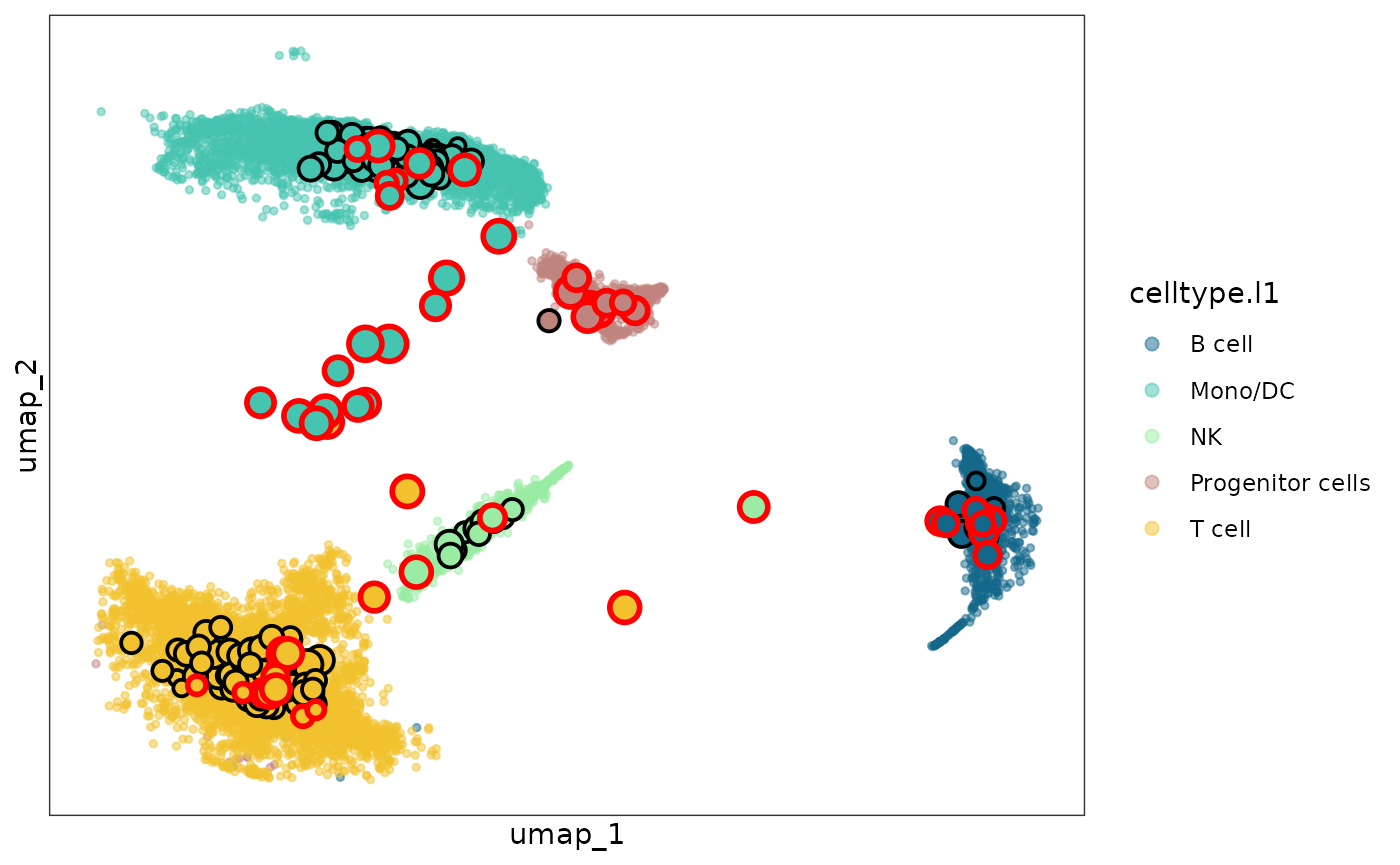
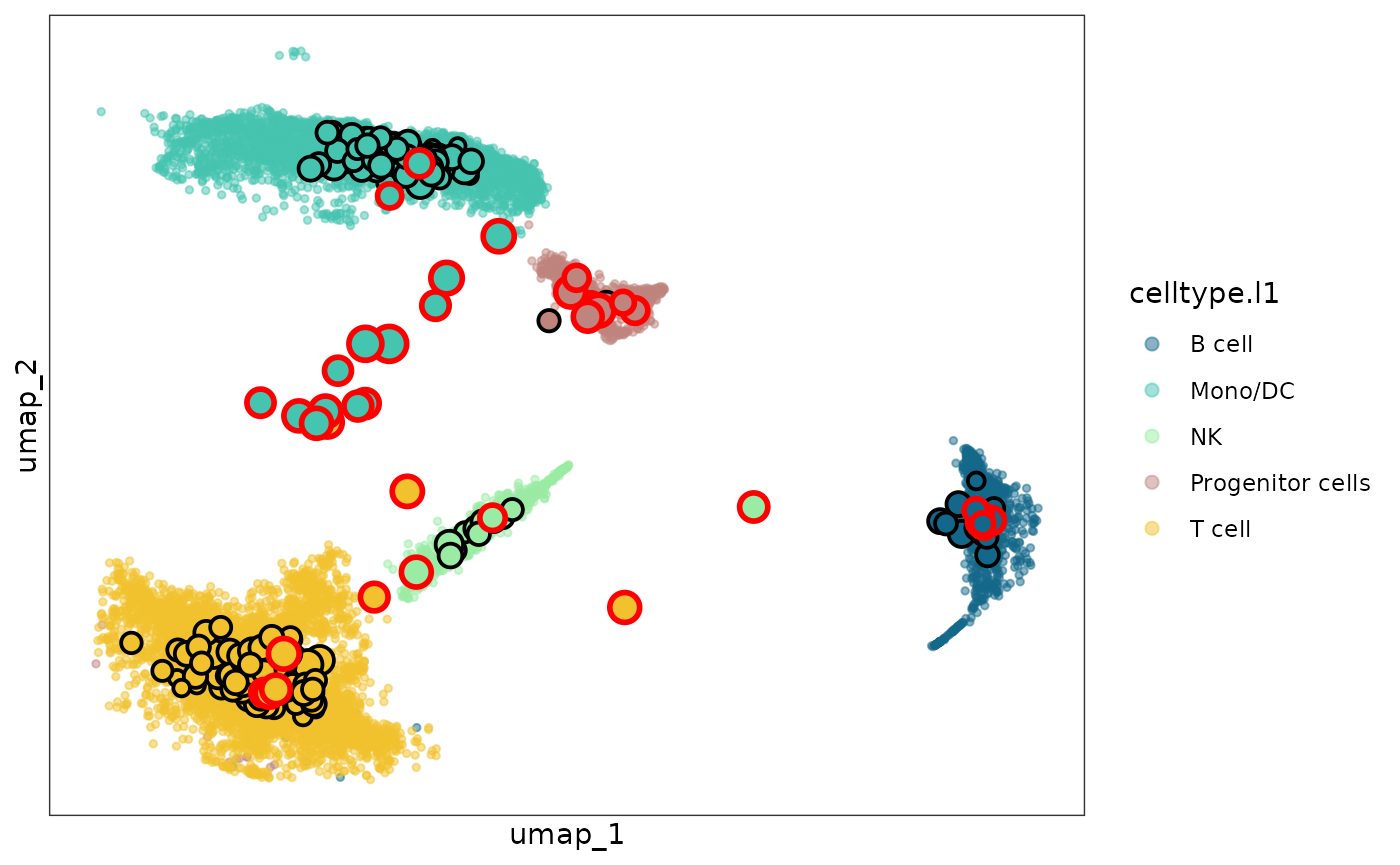
Deploying to gh-pages from @ JSB-UCLA/mcRigor@43a002d25bf159e0ab551213411bad37e7979657 🚀

diff --git a/articles/mcRigor-1-detect-dubmc.html b/articles/mcRigor-1-detect-dubmc.html
@@ -60,7 +60,7 @@
       <h1>Functionality 1: detect dubious metacells for a given metacell partition</h1>
                         <h4 data-toc-skip class="author">Pan Liu</h4>
             
-            <h4 data-toc-skip class="date">7 April 2026</h4>
+            <h4 data-toc-skip class="date">8 April 2026</h4>
       
 
       <div class="d-none name"><code>mcRigor-1-detect-dubmc.Rmd</code></div>
@@ -160,7 +160,7 @@ well as the metadata of the Seurat object with name
 <code class="sourceCode R"><span><span class="fu"><a href="https://rdrr.io/r/base/table.html" class="external-link">table</a></span><span class="op">(</span><span class="va">detect_res</span><span class="op">$</span><span class="va">mc_res</span><span class="op">)</span></span>
 <span><span class="co">#&gt; </span></span>
 <span><span class="co">#&gt;     dubious trustworthy </span></span>
-<span><span class="co">#&gt;          56         212</span></span>
+<span><span class="co">#&gt;          39         229</span></span>
 <span><span class="va">obj_metacell</span> <span class="op">=</span> <span class="va">detect_res</span><span class="op">$</span><span class="va">obj_metacell</span></span>
 <span><span class="fu"><a href="https://rdrr.io/r/utils/head.html" class="external-link">head</a></span><span class="op">(</span><span class="va">obj_metacell</span><span class="op">$</span><span class="va">mcRigor</span><span class="op">)</span></span>
 <span><span class="co">#&gt;   mc50-allcells-SEACell-0   mc50-allcells-SEACell-1  mc50-allcells-SEACell-10 </span></span>
@@ -234,7 +234,7 @@ metacells are with black circles.</p>
 <span><span class="co">#&gt;  [46] bookdown_0.46          knitr_1.51             tensor_1.5.1          </span></span>
 <span><span class="co">#&gt;  [49] future.apply_1.20.2    zoo_1.8-15             sctransform_0.4.3     </span></span>
 <span><span class="co">#&gt;  [52] httpuv_1.6.17          Matrix_1.7-4           splines_4.5.3         </span></span>
-<span><span class="co">#&gt;  [55] igraph_2.2.2           tidyselect_1.2.1       abind_1.4-8           </span></span>
+<span><span class="co">#&gt;  [55] igraph_2.2.3           tidyselect_1.2.1       abind_1.4-8           </span></span>
 <span><span class="co">#&gt;  [58] yaml_2.3.12            spatstat.random_3.4-5  spatstat.explore_3.8-0</span></span>
 <span><span class="co">#&gt;  [61] codetools_0.2-20       miniUI_0.1.2           listenv_0.10.1        </span></span>
 <span><span class="co">#&gt;  [64] plyr_1.8.9             lattice_0.22-9         tibble_3.3.1          </span></span>

diff --git a/articles/mcRigor-4-twostep.html b/articles/mcRigor-4-twostep.html
@@ -153,7 +153,7 @@ there is no need to apply mcRigor two-step.</p>
 <code class="sourceCode R"><span><span class="fu"><a href="https://rdrr.io/r/base/table.html" class="external-link">table</a></span><span class="op">(</span><span class="va">detect_res</span><span class="op">$</span><span class="va">mc_res</span><span class="op">)</span></span>
 <span><span class="co">#&gt; </span></span>
 <span><span class="co">#&gt;     dubious trustworthy </span></span>
-<span><span class="co">#&gt;          28         240</span></span></code></pre></div>
+<span><span class="co">#&gt;          27         241</span></span></code></pre></div>
 <p>We proceed with mcRigor two-step because dubious metacells exist in
 this partition We call the function <code>mcRigorTS_Step1</code> to
 identify the single cells that constitute dubious metacells (under a
@@ -289,7 +289,7 @@ space, respectively.</p>
 <span><span class="co">#&gt;  [46] bookdown_0.46          knitr_1.51             tensor_1.5.1          </span></span>
 <span><span class="co">#&gt;  [49] future.apply_1.20.2    zoo_1.8-15             sctransform_0.4.3     </span></span>
 <span><span class="co">#&gt;  [52] httpuv_1.6.17          Matrix_1.7-4           splines_4.5.3         </span></span>
-<span><span class="co">#&gt;  [55] igraph_2.2.2           tidyselect_1.2.1       abind_1.4-8           </span></span>
+<span><span class="co">#&gt;  [55] igraph_2.2.3           tidyselect_1.2.1       abind_1.4-8           </span></span>
 <span><span class="co">#&gt;  [58] yaml_2.3.12            spatstat.random_3.4-5  spatstat.explore_3.8-0</span></span>
 <span><span class="co">#&gt;  [61] codetools_0.2-20       miniUI_0.1.2           listenv_0.10.1        </span></span>
 <span><span class="co">#&gt;  [64] plyr_1.8.9             lattice_0.22-9         tibble_3.3.1          </span></span>

diff --git a/articles/mcRigor-2-optimize.html b/articles/mcRigor-2-optimize.html
@@ -60,7 +60,7 @@
       <h1>Functionality 2: optimize metacell partitioning</h1>
                         <h4 data-toc-skip class="author">Pan Liu</h4>
             
-            <h4 data-toc-skip class="date">7 April 2026</h4>
+            <h4 data-toc-skip class="date">8 April 2026</h4>
       
 
       <div class="d-none name"><code>mcRigor-2-optimize.Rmd</code></div>
@@ -246,7 +246,7 @@ metacells are with black circles.</p>
 <span><span class="co">#&gt;  [46] bookdown_0.46          knitr_1.51             tensor_1.5.1          </span></span>
 <span><span class="co">#&gt;  [49] future.apply_1.20.2    zoo_1.8-15             sctransform_0.4.3     </span></span>
 <span><span class="co">#&gt;  [52] httpuv_1.6.17          Matrix_1.7-4           splines_4.5.3         </span></span>
-<span><span class="co">#&gt;  [55] igraph_2.2.2           tidyselect_1.2.1       abind_1.4-8           </span></span>
+<span><span class="co">#&gt;  [55] igraph_2.2.3           tidyselect_1.2.1       abind_1.4-8           </span></span>
 <span><span class="co">#&gt;  [58] yaml_2.3.12            spatstat.random_3.4-5  spatstat.explore_3.8-0</span></span>
 <span><span class="co">#&gt;  [61] codetools_0.2-20       miniUI_0.1.2           listenv_0.10.1        </span></span>
 <span><span class="co">#&gt;  [64] plyr_1.8.9             lattice_0.22-9         tibble_3.3.1          </span></span>

diff --git a/reference/mcRigor_DETECT.html b/reference/mcRigor_DETECT.html
@@ -51,7 +51,7 @@
 <span>  assay_type <span class="op">=</span> <span class="fu"><a href="https://rdrr.io/r/base/c.html" class="external-link">c</a></span><span class="op">(</span><span class="st">"RNA"</span>, <span class="st">"ATAC"</span><span class="op">)</span>,</span>
 <span>  aggregate_method <span class="op">=</span> <span class="fu"><a href="https://rdrr.io/r/base/c.html" class="external-link">c</a></span><span class="op">(</span><span class="st">"mean"</span>, <span class="st">"sum"</span>, <span class="st">"geom"</span><span class="op">)</span>,</span>
 <span>  output_file <span class="op">=</span> <span class="cn">NULL</span>,</span>
-<span>  Nrep <span class="op">=</span> <span class="fl">1</span>,</span>
+<span>  Nrep <span class="op">=</span> <span class="fl">50</span>,</span>
 <span>  gene_filter <span class="op">=</span> <span class="fl">0.1</span>,</span>
 <span>  feature_use <span class="op">=</span> <span class="fl">2000</span>,</span>
 <span>  cor_method <span class="op">=</span> <span class="fu"><a href="https://rdrr.io/r/base/c.html" class="external-link">c</a></span><span class="op">(</span><span class="st">"pearson"</span>, <span class="st">"spearman"</span><span class="op">)</span>,</span>

diff --git a/articles/mcRigor-1-detect-dubmc.md b/articles/mcRigor-1-detect-dubmc.md
@@ -98,7 +98,7 @@ the Seurat object with name `mcRigor`.
 table(detect_res$mc_res)
 #> 
 #>     dubious trustworthy 
-#>          56         212
+#>          39         229
 obj_metacell = detect_res$obj_metacell
 head(obj_metacell$mcRigor)
 #>   mc50-allcells-SEACell-0   mc50-allcells-SEACell-1  mc50-allcells-SEACell-10 
@@ -175,7 +175,7 @@ sessionInfo()
 #>  [46] bookdown_0.46          knitr_1.51             tensor_1.5.1          
 #>  [49] future.apply_1.20.2    zoo_1.8-15             sctransform_0.4.3     
 #>  [52] httpuv_1.6.17          Matrix_1.7-4           splines_4.5.3         
-#>  [55] igraph_2.2.2           tidyselect_1.2.1       abind_1.4-8           
+#>  [55] igraph_2.2.3           tidyselect_1.2.1       abind_1.4-8           
 #>  [58] yaml_2.3.12            spatstat.random_3.4-5  spatstat.explore_3.8-0
 #>  [61] codetools_0.2-20       miniUI_0.1.2           listenv_0.10.1        
 #>  [64] plyr_1.8.9             lattice_0.22-9         tibble_3.3.1          

diff --git a/articles/mcRigor-4-twostep.md b/articles/mcRigor-4-twostep.md
@@ -80,7 +80,7 @@ detect_res = mcRigor_DETECT(obj_singlecell = obj_singlecell, cell_membership = c
 table(detect_res$mc_res)
 #> 
 #>     dubious trustworthy 
-#>          28         240
+#>          27         241
 ```
 
 We proceed with mcRigor two-step because dubious metacells exist in this
@@ -225,7 +225,7 @@ sessionInfo()
 #>  [46] bookdown_0.46          knitr_1.51             tensor_1.5.1          
 #>  [49] future.apply_1.20.2    zoo_1.8-15             sctransform_0.4.3     
 #>  [52] httpuv_1.6.17          Matrix_1.7-4           splines_4.5.3         
-#>  [55] igraph_2.2.2           tidyselect_1.2.1       abind_1.4-8           
+#>  [55] igraph_2.2.3           tidyselect_1.2.1       abind_1.4-8           
 #>  [58] yaml_2.3.12            spatstat.random_3.4-5  spatstat.explore_3.8-0
 #>  [61] codetools_0.2-20       miniUI_0.1.2           listenv_0.10.1        
 #>  [64] plyr_1.8.9             lattice_0.22-9         tibble_3.3.1          

diff --git a/articles/mcRigor-2-optimize.md b/articles/mcRigor-2-optimize.md
@@ -190,7 +190,7 @@ sessionInfo()
 #>  [46] bookdown_0.46          knitr_1.51             tensor_1.5.1          
 #>  [49] future.apply_1.20.2    zoo_1.8-15             sctransform_0.4.3     
 #>  [52] httpuv_1.6.17          Matrix_1.7-4           splines_4.5.3         
-#>  [55] igraph_2.2.2           tidyselect_1.2.1       abind_1.4-8           
+#>  [55] igraph_2.2.3           tidyselect_1.2.1       abind_1.4-8           
 #>  [58] yaml_2.3.12            spatstat.random_3.4-5  spatstat.explore_3.8-0
 #>  [61] codetools_0.2-20       miniUI_0.1.2           listenv_0.10.1        
 #>  [64] plyr_1.8.9             lattice_0.22-9         tibble_3.3.1          

diff --git a/reference/mcRigor_DETECT.md b/reference/mcRigor_DETECT.md
@@ -13,7 +13,7 @@ mcRigor_DETECT(
   assay_type = c("RNA", "ATAC"),
   aggregate_method = c("mean", "sum", "geom"),
   output_file = NULL,
-  Nrep = 1,
+  Nrep = 50,
   gene_filter = 0.1,
   feature_use = 2000,
   cor_method = c("pearson", "spearman"),
